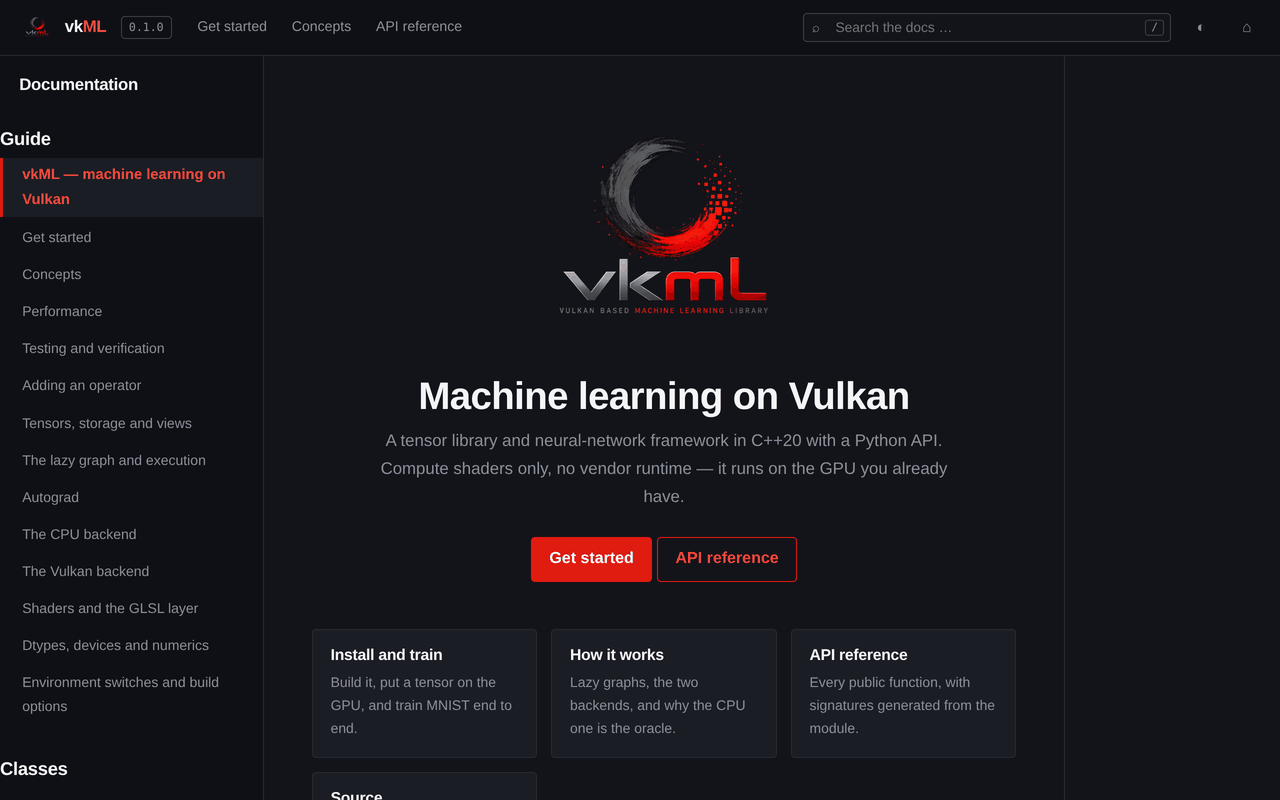
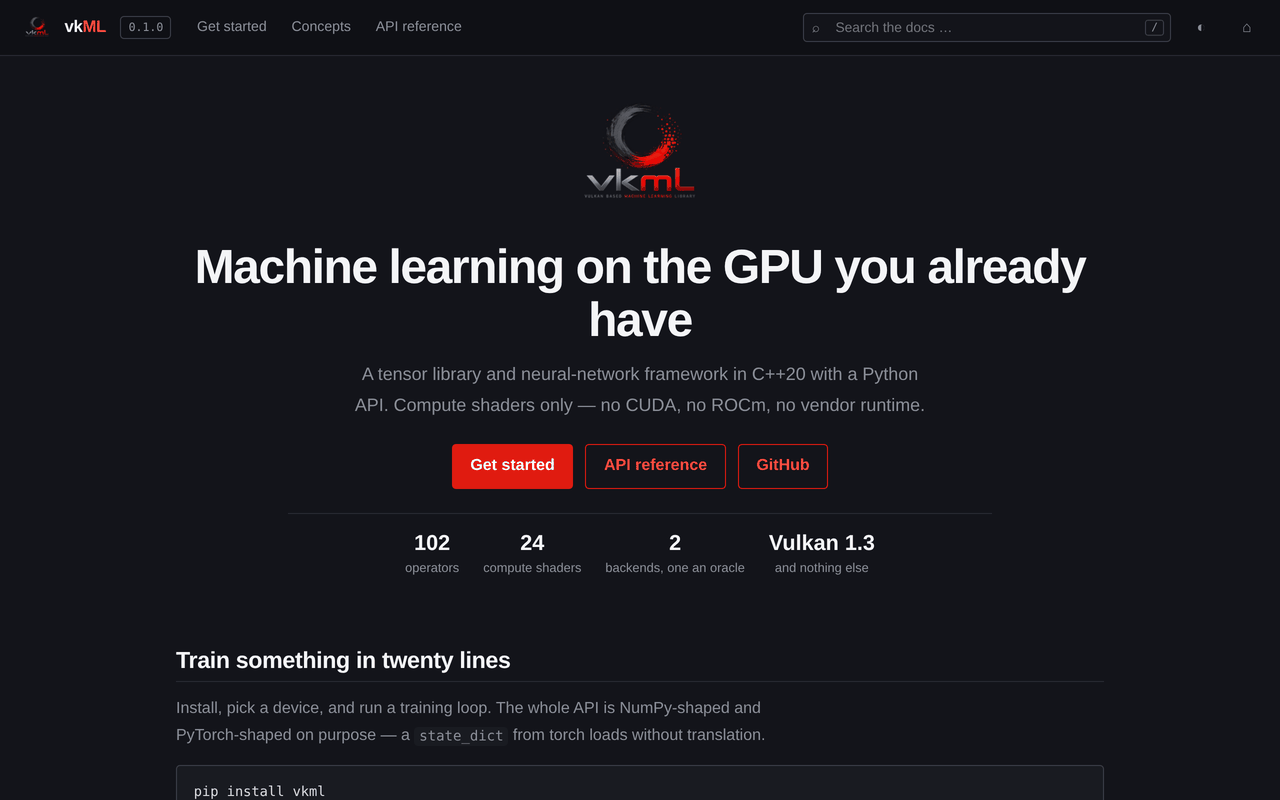
docs-site: give the landing page its own layout and a reason to keep reading
The landing page rendered inside the documentation shell, so a 280px section
tree sat beside the hero listing "Performance", "Testing and verification",
"Adding an operator" and eleven more — pages a first-time visitor has no context
for. The hero was centred on what was left after the sidebar rather than on the
page, and the lede broke into three lines ending with "have." alone.

None of the twelve reference sites measured shows its documentation tree on the
landing page. The reason is not aesthetic: a sidebar is a wayfinding aid for a
reader who already knows what they are looking for, and that is not who this
page is for.

The page now drops the tree and the contents rail, and carries the sections we
agreed: hero and quick start, runs on any Vulkan GPU, the CPU backend as oracle,
how it fits together, and where to go next. No performance section — the
measured position is that a 36-CU discrete GPU is 4% slower than PyTorch on a
CPU, and the honest place for that is the performance page, which says so with
the table and the analysis.

Every number on the page is counted from the tree rather than typed: 102
operators, 24 compute shaders, 2 backends, 1,434 Python tests, Vulkan 1.3.

One CSS bug worth recording, because it was invisible in the source and obvious
in a measurement. `.landing .content > *` resets max-width for the full-bleed
layout, and at specificity (0,2,0) it beat the `.lsec` container at (0,1,0) — so
[…]

diff --git a/web/theme/vkml.css b/web/theme/vkml.css
@@ -470,3 +470,68 @@ footer.page { max-width: none; margin-top: 2.5rem; padding-top: 1.1rem;
     html { scroll-behavior: auto; }
     * { transition-duration: .01ms !important; }
 }
+
+/* --------------------------------------------------------------- landing -- */
+
+/* The landing page is not a documentation page. It drops the section tree, the
+   contents rail and the measure clamp, and centres on the viewport instead of
+   on whatever is left after a sidebar -- which is what made the hero sit
+   visibly off-centre and squeezed the lede into a three-line block ending in a
+   one-word widow. */
+
+.landing .content { max-width: none; padding: 0 0 var(--s-6); }
+/* Written as `.content > .lsec` rather than `.lsec`, because the reset above
+   is `.landing .content > *` and would otherwise win on specificity -- which it
+   did: every section rendered at the full 1280 with no container, and the card
+   grid spread to four across. */
+.landing .content > * { max-width: none; }
+.landing .content > .lsec,
+.landing .content > .lhero { max-width: 60rem; margin-left: auto; margin-right: auto; }
+.landing footer.page { max-width: 60rem; margin-left: auto; margin-right: auto;
+                       padding-left: var(--s-4); padding-right: var(--s-4); }
+
+/* Every landing section shares one container, so the left edges line up down
+   the page. Wider than the prose measure because these are display blocks, not
+   long-form reading. */
+.lsec { max-width: 60rem; margin: 0 auto; padding: var(--s-6) var(--s-4); }
+.lsec + .lsec { padding-top: 0; }
+.lsec > h2 { margin-top: 0; font-size: 1.45rem; }
+.lsec > h2 + p { color: var(--fg-muted); max-width: 40rem; }
+
+/* Hero. The lede is clamped well inside the container so it breaks into two
+   balanced lines rather than three with a widow. */
+.lhero { text-align: center; padding: var(--s-6) var(--s-4) var(--s-5); }
+.lhero img { height: 7.5rem; width: auto; }
+.lhero h1 { margin: var(--s-4) 0 var(--s-3); font-size: clamp(2rem, 5vw, 3rem);
+            letter-spacing: -.03em; line-height: 1.1; }
+.lhero .lede { max-width: 40rem; margin: 0 auto var(--s-5);
+               font-size: 1.12rem; color: var(--fg-muted); text-wrap: balance; }
+.lhero .cta { display: flex; gap: var(--s-3); justify-content: center; flex-wrap: wrap; }
+
+/* A run of short facts under the hero. Each is checkable -- they are counted
+   from the tree at build time, not typed here. */
+.lstats { display: flex; flex-wrap: wrap; justify-content: center; gap: var(--s-5);
+          margin: var(--s-5) auto 0; padding: var(--s-4) var(--s-4) 0;
+          border-top: 1px solid var(--border); max-width: 44rem; }
+.lstat { text-align: center; }
+.lstat b { display: block; font: 700 1.35rem/1.2 var(--sans); color: var(--fg-strong); }
+.lstat span { font-size: .8rem; color: var(--fg-muted); }
+
+/* Two columns where the point is a comparison or a code sample beside prose.
+   Collapses to one on anything narrow. */
+.lsplit { display: grid; gap: var(--s-5); grid-template-columns: 1fr 1fr;
+          align-items: start; }
+.lsplit pre { margin: 0; }
+@media (max-width: 56rem) { .lsplit { grid-template-columns: 1fr; } }
+
+/* The landing card grid: an even 2x2 rather than three across with a fourth
+   orphaned onto a second row. */
+.landing .cards { grid-template-columns: repeat(auto-fit, minmax(17rem, 1fr)); }
+.card:hover { border-color: var(--border-strong); background: var(--bg-code); }
+.card h3 { margin: 0 0 var(--s-2); font-size: 1rem; }
+.card p { margin: 0; font-size: .9rem; color: var(--fg-muted); }
+
+@media (max-width: 48rem) {
+    .lhero img { height: 5.5rem; }
+    .lsec { padding: var(--s-5) var(--s-4); }
+}

diff --git a/web/content/guide.py b/web/content/guide.py
@@ -7,43 +7,36 @@ would be more machinery than the pages are worth.
 from __future__ import annotations
 
 LANDING = """
-<div class="hero">
-  <img src="assets/vkml_logo.png" alt="vkML">
-  <h1>Machine learning on Vulkan</h1>
-  <p class="lede">A tensor library and neural-network framework in C++20 with a Python API.
-  Compute shaders only, no vendor runtime — it runs on the GPU you already have.</p>
-  <p>
+<div class="lhero">
+  <img src="assets/logo-256.png" alt="vkML" width="256" height="171">
+  <h1>Machine learning on the GPU you already have</h1>
+  <p class="lede">A tensor library and neural-network framework in C++20 with a Python
+  API. Compute shaders only &mdash; no CUDA, no ROCm, no vendor runtime.</p>
+  <p class="cta">
     <a class="btn solid" href="get-started.html">Get started</a>
     <a class="btn" href="api.html">API reference</a>
+    <a class="btn" href="https://github.com/jeel00dev/vkml">GitHub</a>
   </p>
+  <div class="lstats">
+    <div class="lstat"><b>102</b><span>operators</span></div>
+    <div class="lstat"><b>24</b><span>compute shaders</span></div>
+    <div class="lstat"><b>2</b><span>backends, one an oracle</span></div>
+    <div class="lstat"><b>Vulkan&nbsp;1.3</b><span>and nothing else</span></div>
+  </div>
 </div>
 
-<div class="cards">
-  <a class="card" href="get-started.html">
-    <h3>Install and train</h3>
-    <p>Build it, put a tensor on the GPU, and train MNIST end to end.</p>
-  </a>
-  <a class="card" href="concepts.html">
-    <h3>How it works</h3>
-    <p>Lazy graphs, the two backends, and why the CPU one is the oracle.</p>
-  </a>
-  <a class="card" href="api.html">
-    <h3>API reference</h3>
-    <p>Every public function, with signatures generated from the module.</p>
-  </a>
-  <a class="card" href="https://github.com/jeel00dev/vkml">
-    <h3>Source</h3>
-    <p>Apache-2.0. Issues, design records and the engineering handbook.</p>
-  </a>
-</div>
-
-<h2>What it looks like</h2>
-<pre><code>import numpy as np, vkml
+<div class="lsec">
+<h2 id="quick-start">Train something in twenty lines</h2>
+<p>Install, pick a device, and run a training loop. The whole API is NumPy-shaped
+and PyTorch-shaped on purpose &mdash; a <code>state_dict</code> from torch loads
+without translation.</p>
+<pre><code>pip install vkml</code></pre>
+<pre><code>import vkml
 from vkml import nn, optim
 
 vkml.init_vulkan(0)
 dev, why = vkml.best_device()
-print(why)          # using Vulkan device 0: AMD Radeon RX 5600M (discrete, …)
+print(why)          # using Vulkan device 0: AMD Radeon RX 5600M (discrete, ...)
 
 model = nn.Sequential(nn.Linear(784, 128), nn.ReLU(), nn.Linear(128, 10)).to(dev)
 opt = optim.Adam(model.parameters(), lr=1e-3)
@@ -52,38 +45,107 @@ for x, y in loader:
     opt.zero_grad()
     vkml.backward(nn.cross_entropy(model(x), y))
     opt.step()</code></pre>
+</div>
 
-<h2>What makes it different</h2>
+<div class="lsec">
+<h2 id="any-gpu">Runs on any Vulkan GPU</h2>
+<p>Vulkan 1.3 compute is the only requirement. That covers AMD, Intel, NVIDIA,
+Apple through MoltenVK, and the integrated GPU in a laptop &mdash; the same
+binary, with no vendor toolkit to install and no per-vendor code path to
+maintain.</p>
+<div class="lsplit">
+  <div>
+    <h3>No vendor runtime</h3>
+    <p>Twenty-four GLSL compute shaders compiled to SPIR-V at build time. There is
+    no CUDA, no ROCm and no vendor SDK anywhere in the build.</p>
+    <h3>Written against the guarantee, not the machine</h3>
+    <p>Push-constant budgets, workgroup widths and subgroup ranges are checked
+    against what Vulkan 1.3 <em>requires</em>, not what the development GPU happens
+    to report. <code>VKML_MIN_SPEC=1</code> makes any device report the guaranteed
+    floor so that is testable.</p>
+  </div>
+  <div>
+    <h3>Deterministic by contract</h3>
+    <p>Identical inputs give identical bytes on the same device, and across
+    drivers where the contract says so. f32&rarr;f16 narrowing is done in software
+    rather than left to <code>OpFConvert</code>, whose rounding mode SPIR-V leaves
+    implementation-defined.</p>
+    <h3>Lazy by default</h3>
+    <p>Operations build a graph; evaluation waits until something observes the
+    result. Eager mode collapses that while debugging.</p>
+  </div>
+</div>
+</div>
 
-<h3>Portable by construction</h3>
-<p>No CUDA, no ROCm, no vendor SDK. Vulkan compute shaders run on AMD, Intel, NVIDIA and
-software rasterisers alike. The library asserts against the limits Vulkan <em>guarantees</em>
-rather than the ones the development machine happens to report — every push-constant block
-fits the guaranteed 128 bytes, and the workgroup width adapts to the device.</p>
+<div class="lsec">
+<h2 id="correctness">The CPU backend is the oracle, not a fallback</h2>
+<p>Every operator has a CPU implementation whose job is to be <em>right</em>, and
+the Vulkan one is checked against it. Both are checked against PyTorch. Where the
+two backends disagree, the difference is a documented tolerance with a stated
+kind &mdash; exact, ULP, relative or backward &mdash; not a fudge factor.</p>
+<div class="lsplit">
+  <div>
+    <h3>Tested against two references</h3>
+    <p>1,434 Python tests compare against PyTorch and against the CPU oracle,
+    including strided inputs, empty tensors, broadcasting, mixed precision and
+    extreme magnitudes.</p>
+  </div>
+  <div>
+    <h3>The tests are checked too</h3>
+    <p>A mutation campaign breaks each kernel on purpose and confirms the suite
+    notices. A green suite proves the tests ran, not that they can fail.</p>
+  </div>
+</div>
+</div>
 
-<h3>The CPU backend is an oracle, not a fallback</h3>
-<p>Correctness is a chain: the CPU backend is checked against PyTorch for semantics, then the
-Vulkan backend against the CPU for kernel bugs. That second link only means anything because
-the CPU backend shares vkML's exact semantics, so a mismatch is unambiguously a kernel
-defect.</p>
-<p>It follows that the Vulkan backend is <strong>all or nothing</strong>. An operation it does
-not implement raises <code>NotImplementedError</code> instead of quietly moving your data to
-the host — a silent fallback would make a GPU run indistinguishable from a CPU one.</p>
+<div class="lsec">
+<h2 id="architecture">How it fits together</h2>
+<p>Nine layers, and the dependency direction is enforced by a build gate rather
+than by convention.</p>
+<pre><code>util 0 &middot; core 1 &middot; graph 2 &middot; backend/api 3 &middot; backend/cpu | backend/vulkan 4
+dispatch 5 &middot; plan 5 &middot; api 6 &middot; autograd 7</code></pre>
+<p>A Python call enters the API layer, builds graph nodes, and returns. When a
+result is observed the dispatcher walks the graph, picks a backend per node, and
+submits. On Vulkan that means selecting one of six matmul pipelines, packing
+push constants, and recording a dispatch &mdash; all described in
+<a href="concepts.html">Concepts</a> and the architecture pages.</p>
+</div>
 
-<h3>Deterministic on purpose</h3>
-<p>Identical inputs give bit-identical outputs on the same device, and across drivers where
-the contract says so. Reduction trees are fixed by shape rather than by scheduling, and
-float32→float16 narrowing is done in software because SPIR-V leaves
-<code>OpFConvert</code>'s rounding mode implementation-defined.</p>
-
-<div class="admon warn">
-  <span class="label">alpha</span>
-  <p>vkML is under active development. The core tensor and autograd layers are stable and
-  heavily tested; performance work is ongoing and the API may still change. See
-  <a href="https://github.com/jeel00dev/vkml/issues">open issues</a> for what is known.</p>
+<div class="lsec">
+<h2 id="explore">Explore</h2>
+<div class="cards">
+  <a class="card" href="get-started.html">
+    <h3>Get started</h3>
+    <p>Build it, check your device is usable, put a tensor on the GPU and train
+    MNIST end to end.</p>
+  </a>
+  <a class="card" href="concepts.html">
+    <h3>Concepts</h3>
+    <p>Lazy graphs, the two backends, dtypes and devices, and why the CPU one is
+    the oracle.</p>
+  </a>
+  <a class="card" href="api.html">
+    <h3>API reference</h3>
+    <p>102 operators and 27 classes, with signatures generated from the installed
+    module so they cannot go stale.</p>
+  </a>
+  <a class="card" href="arch-tensor.html">
+    <h3>Architecture</h3>
+    <p>Tensors and views, the graph, autograd, both backends, the shader layer
+    and the numerics.</p>
+  </a>
+  <a class="card" href="performance.html">
+    <h3>Performance</h3>
+    <p>Where the time actually goes, measured with timestamp queries, and what is
+    being done about it.</p>
+  </a>
+  <a class="card" href="https://github.com/jeel00dev/vkml">
+    <h3>Source</h3>
+    <p>Apache-2.0. Issues, design records and the engineering handbook.</p>
+  </a>
+</div>
 </div>
 """
-
 
 GET_STARTED = """
 <h1>Get started</h1>

diff --git a/web/build.py b/web/build.py
@@ -34,6 +34,11 @@ ROOT = Path(__file__).resolve().parent.parent
 WEB = ROOT / "web"
 OUT = WEB / "_site"
 
+# Absolute, because og:image and og:url are fetched by a crawler that has no
+# page context to resolve a relative path against -- a relative og:image is
+# the usual reason a link preview renders blank.
+SITE_URL = "https://jeel00dev.github.io/vkml"
+
 sys.path.insert(0, str(ROOT / "python"))
 sys.path.insert(0, str(WEB))
 
@@ -760,14 +765,25 @@ SHELL = """<!doctype html>
 <meta name="viewport" content="width=device-width, initial-scale=1">
 <title>{title}</title>
 <meta name="description" content="{desc}">
-<link rel="icon" href="assets/vkml_logo.png">
+<link rel="icon" href="assets/favicon-32.png" sizes="32x32">
+<link rel="apple-touch-icon" href="assets/apple-touch-icon.png">
+<meta property="og:type" content="website">
+<meta property="og:site_name" content="vkML">
+<meta property="og:title" content="{ogtitle}">
+<meta property="og:description" content="{desc}">
+<meta property="og:image" content="{site}/assets/og-card.png">
+<meta property="og:url" content="{site}/{page}.html">
+<meta name="twitter:card" content="summary_large_image">
+<meta name="twitter:title" content="{ogtitle}">
+<meta name="twitter:description" content="{desc}">
+<meta name="twitter:image" content="{site}/assets/og-card.png">
 <link rel="stylesheet" href="theme/vkml.css">
 </head>
-<body>
+<body class="{bodycls}">
 <header class="topbar">
   <button class="icon-btn" id="nav-toggle" aria-label="Toggle navigation">☰</button>
   <a class="brand" href="index.html">
-    <img src="assets/vkml_logo.png" alt=""><span>vk<span class="ml">ML</span></span>
+    <img src="assets/logo-64.png" alt="" width="38" height="26"><span>vk<span class="ml">ML</span></span>
   </a>
   <span class="ver">{version}</span>
   <nav>
@@ -821,6 +837,10 @@ def write(
     path.write_text(
         SHELL.format(
             title=html.escape(title),
+            # Without the site suffix. The <title> ends "-- vkML" and og:site_name
+            # already carries the project, so reusing it here rendered link
+            # previews as "vkML -- machine learning on Vulkan -- vkML".
+            ogtitle=html.escape(re.sub(r"\s*—\s*vkML$", "", title)),
             desc=html.escape(plain(desc)),
             body=body,
             sidenav=nav,
@@ -828,6 +848,11 @@ def write(
             crumbs=crumb,
             version=html.escape(V.__version__),
             apicls="active" if page == "api" else "",
+            # The landing page is not a documentation page: it drops the
+            # section tree and the measure clamp, and centres on the viewport.
+            bodycls="landing" if page == "index" else "",
+            page=page,
+            site=SITE_URL,
             index=index_json,
         )
     )
@@ -981,7 +1006,8 @@ def build() -> int:
     shutil.copytree(WEB / "theme", OUT / "theme")
     (OUT / "theme" / "site.js").write_text(SITE_JS)
     (OUT / "assets").mkdir()
-    shutil.copy(ROOT / "assets" / "vkml_logo.png", OUT / "assets" / "vkml_logo.png")
+    for f in sorted((ROOT / "assets" / "derived").glob("*.png")):
+        shutil.copy(f, OUT / "assets" / f.name)
     (OUT / ".nojekyll").write_text("")
 
     public = {
@@ -1091,8 +1117,13 @@ def build() -> int:
             title=f"{title} — vkML",
             desc=title,
             body=body,
-            nav=sidenav(slug),
-            toc=toc_for(heads),
+            # The landing page carries no section tree and no contents rail:
+            # a sidebar is a wayfinding aid for a reader who already knows what
+            # they are looking for, and a first-time visitor is not that reader.
+            # None of the twelve reference sites measured shows its docs tree
+            # on the landing page.
+            nav="" if slug == "index" else sidenav(slug),
+            toc="" if slug == "index" else toc_for(heads),
             crumb=crumb,
             page=slug,
             index_json=index_json,
